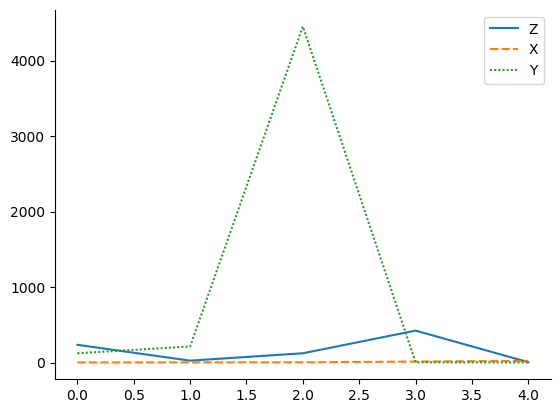
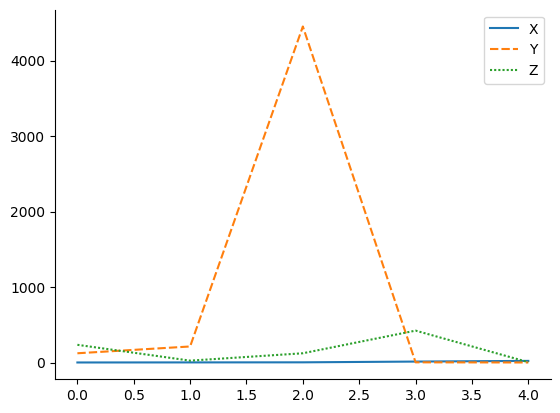
可以使用plt重新绘制（暂时只支持添加x,y轴label）图片

diff --git a/utils/pltType.py b/utils/pltType.py
@@ -1,0 +1,182 @@
+'''
+@lanhuage: python
+@Descripttion: 
+@version: beta
+@Author: xiaoshuyui
+@Date: 2020-04-21 15:16:04
+@LastEditors: xiaoshuyui
+@LastEditTime: 2020-04-21 15:19:48
+'''
+cnames = { 
+'aliceblue':   '#F0F8FF', 
+'antiquewhite':   '#FAEBD7', 
+'aqua':     '#00FFFF', 
+'aquamarine':   '#7FFFD4', 
+'azure':    '#F0FFFF', 
+'beige':    '#F5F5DC', 
+'bisque':    '#FFE4C4', 
+'black':    '#000000', 
+'blanchedalmond':  '#FFEBCD', 
+'blue':     '#0000FF', 
+'blueviolet':   '#8A2BE2', 
+'brown':    '#A52A2A', 
+'burlywood':   '#DEB887', 
+'cadetblue':   '#5F9EA0', 
+'chartreuse':   '#7FFF00', 
+'chocolate':   '#D2691E', 
+'coral':    '#FF7F50', 
+'cornflowerblue':  '#6495ED', 
+'cornsilk':    '#FFF8DC', 
+'crimson':    '#DC143C', 
+'cyan':     '#00FFFF', 
+'darkblue':    '#00008B', 
+'darkcyan':    '#008B8B', 
+'darkgoldenrod':  '#B8860B', 
+'darkgray':    '#A9A9A9', 
+'darkgreen':   '#006400', 
+'darkkhaki':   '#BDB76B', 
+'darkmagenta':   '#8B008B', 
+'darkolivegreen':  '#556B2F', 
+'darkorange':   '#FF8C00', 
+'darkorchid':   '#9932CC', 
+'darkred':    '#8B0000', 
+'darksalmon':   '#E9967A', 
+'darkseagreen':   '#8FBC8F', 
+'darkslateblue':  '#483D8B', 
+'darkslategray':  '#2F4F4F', 
+'darkturquoise':  '#00CED1', 
+'darkviolet':   '#9400D3', 
+'deeppink':    '#FF1493', 
+'deepskyblue':   '#00BFFF', 
+'dimgray':    '#696969', 
+'dodgerblue':   '#1E90FF', 
+'firebrick':   '#B22222', 
+'floralwhite':   '#FFFAF0', 
+'forestgreen':   '#228B22', 
+'fuchsia':    '#FF00FF', 
+'gainsboro':   '#DCDCDC', 
+'ghostwhite':   '#F8F8FF', 
+'gold':     '#FFD700', 
+'goldenrod':   '#DAA520', 
+'gray':     '#808080', 
+'green':    '#008000', 
+'greenyellow':   '#ADFF2F', 
+'honeydew':    '#F0FFF0', 
+'hotpink':    '#FF69B4', 
+'indianred':   '#CD5C5C', 
+'indigo':    '#4B0082', 
+'ivory':    '#FFFFF0', 
+'khaki':    '#F0E68C', 
+'lavender':    '#E6E6FA', 
+'lavenderblush':  '#FFF0F5', 
+'lawngreen':   '#7CFC00', 
+'lemonchiffon':   '#FFFACD', 
+'lightblue':   '#ADD8E6', 
+'lightcoral':   '#F08080', 
+'lightcyan':   '#E0FFFF', 
+'lightgoldenrodyellow': '#FAFAD2', 
+'lightgreen':   '#90EE90', 
+'lightgray':   '#D3D3D3', 
+'lightpink':   '#FFB6C1', 
+'lightsalmon':   '#FFA07A', 
+'lightseagreen':  '#20B2AA', 
+'lightskyblue':   '#87CEFA', 
+'lightslategray':  '#778899', 
+'lightsteelblue':  '#B0C4DE', 
+'lightyellow':   '#FFFFE0', 
+'lime':     '#00FF00', 
+'limegreen':   '#32CD32', 
+'linen':    '#FAF0E6', 
+'magenta':    '#FF00FF', 
+'maroon':    '#800000', 
+'mediumaquamarine':  '#66CDAA', 
+'mediumblue':   '#0000CD', 
+'mediumorchid':   '#BA55D3', 
+'mediumpurple':   '#9370DB', 
+'mediumseagreen':  '#3CB371', 
+'mediumslateblue':  '#7B68EE', 
+'mediumspringgreen': '#00FA9A', 
+'mediumturquoise':  '#48D1CC', 
+'mediumvioletred':  '#C71585', 
+'midnightblue':   '#191970', 
+'mintcream':   '#F5FFFA', 
+'mistyrose':   '#FFE4E1', 
+'moccasin':    '#FFE4B5', 
+'navajowhite':   '#FFDEAD', 
+'navy':     '#000080', 
+'oldlace':    '#FDF5E6', 
+'olive':    '#808000', 
+'olivedrab':   '#6B8E23', 
+'orange':    '#FFA500', 
+'orangered':   '#FF4500', 
+'orchid':    '#DA70D6', 
+'palegoldenrod':  '#EEE8AA', 
+'palegreen':   '#98FB98', 
+'paleturquoise':  '#AFEEEE', 
+'palevioletred':  '#DB7093', 
+'papayawhip':   '#FFEFD5', 
+'peachpuff':   '#FFDAB9', 
+'peru':     '#CD853F', 
+'pink':     '#FFC0CB', 
+'plum':     '#DDA0DD', 
+'powderblue':   '#B0E0E6', 
+'purple':    '#800080', 
+'red':     '#FF0000', 
+'rosybrown':   '#BC8F8F', 
+'royalblue':   '#4169E1', 
+'saddlebrown':   '#8B4513', 
+'salmon':    '#FA8072', 
+'sandybrown':   '#FAA460', 
+'seagreen':    '#2E8B57', 
+'seashell':    '#FFF5EE', 
+'sienna':    '#A0522D', 
+'silver':    '#C0C0C0', 
+'skyblue':    '#87CEEB', 
+'slateblue':   '#6A5ACD', 
+'slategray':   '#708090', 
+'snow':     '#FFFAFA', 
+'springgreen':   '#00FF7F', 
+'steelblue':   '#4682B4', 
+'tan':     '#D2B48C', 
+'teal':     '#008080', 
+'thistle':    '#D8BFD8', 
+'tomato':    '#FF6347', 
+'turquoise':   '#40E0D0', 
+'violet':    '#EE82EE', 
+'wheat':    '#F5DEB3', 
+'white':    '#FFFFFF', 
+'whitesmoke':   '#F5F5F5', 
+'yellow':    '#FFFF00', 
+'yellowgreen':   '#9ACD32'}
+
+marker = [
+    '.',       
+    ',',      
+    'o',      
+    'v',     
+    '^',    
+    '<',   
+    '>',     
+    '1',     
+    '2',     
+    '3',    
+    '4',     
+    's',     
+    'p',    
+    '*',    
+    'h',    
+    'H',     
+    '+',     
+    'x',    
+    'D',    
+    'd',     
+    '|',     
+    '_'   
+]
+
+linestyle=[
+    '-'  ,
+    '--' ,
+    '-.' ,
+    ':'
+]

diff --git a/program.py b/program.py
@@ -5,7 +5,7 @@
 @Author: xiaoshuyui
 @Date: 2020-04-16 15:40:21
 @LastEditors: xiaoshuyui
-@LastEditTime: 2020-04-21 13:52:05
+@LastEditTime: 2020-04-21 15:33:26
 '''
 from PyQt5 import QtWidgets,QtCore,QtGui
 from PyQt5.QtWidgets import QMainWindow,QApplication,QAction,QFileDialog,QInputDialog,QMessageBox, \
@@ -149,9 +149,15 @@ class UI(QMainWindow,):
         self.set_test_button.triggered.connect(self.test)
         #回车事件判断
         self.url_edit.returnPressed.connect(self.inputTurn)
-        #输入事件判断
-        # self.url_edit.textChanged.connect(self.showHistory)
+        #显示访问记录
         self.showHistory()
+
+        self.xstick = ''
+        self.ystick = ''
+        self.dataPath = ''
+        self.sheetName = ''
+        self.formType = ''
+        self.columns = []
 
 
     def  showHistory(self): 
@@ -253,12 +259,14 @@ class UI(QMainWindow,):
 
                 menu = QMenu()
                 b1 = menu.addAction("修改X轴名")
-                b2 = menu.addAction("修改Y轴名")
+                b2 = menu.addAction("修改Y轴名")               
+                bchange = menu.addAction("重新绘制图形")
                 b3 = menu.addAction("关于...")
 
                 b3.triggered.connect(self.b3Clicked)
                 b1.triggered.connect(self.b1Clicked)
                 b2.triggered.connect(self.b2Clicked)
+                bchange.triggered.connect(self.bChangeClicked)
                 menu.exec_(QCursor.pos())
             
             else:
@@ -270,16 +278,40 @@ class UI(QMainWindow,):
                 b5.triggered.connect(self.b5Clicked)
                 menu.exec_(QCursor.pos())
 
-    
+    def bChangeClicked(self):
+        if "" == self.xstick and "" == self.ystick:
+            pass
+        else:
+            # print(self.xstick)
+            # print(self.ystick)
+            figurePath = plotFigureWithLabels(self.dataPath,self.sheetName,self.columns,\
+                self.formType,xstick=self.xstick,ystick=self.ystick)
+            from utils.webTest import check_aliveness
+            result = check_aliveness('127.0.0.1',5000)
+            if result:
+                import requests
+                url = 'http://localhost:5000/showImg'
+                img = '?imgName='+figurePath
+                self.browser.setUrl(QtCore.QUrl( url+img))
+            else:
+                QMessageBox.warning(self, "警告对话框", "服务器未启动", QMessageBox.Yes )
+
 
     def b3Clicked(self):
         QMessageBox.information(self, "提示：", '   作者很帅')
 
     def b1Clicked(self):
         text, ok=QInputDialog.getText(self, 'Text Input Dialog', '输入需要修改的X轴名：')
+        if ok:
+            if text!='':
+                self.xstick = text
+
 
     def b2Clicked(self):
         text, ok=QInputDialog.getText(self, 'Text Input Dialog', '输入需要修改的Y轴名：')
+        if ok:
+            if text!='':
+                self.ystick = text
 
     def b4Clicked(self):
         ss = set(self.favWebs)
@@ -359,8 +391,12 @@ class UI(QMainWindow,):
         
         ps = list(set(ps))
         # print(ps)
-        print(ps)
+
         if len(ps)>0 :
+            self.dataPath = fileName_choose
+            self.sheetName = sheetName
+            self.formType = formType
+            self.columns = ps
             figurePath = plotFigure(fileName_choose,sheetName,ps,formType)
 
             from utils.webTest import check_aliveness
@@ -373,9 +409,6 @@ class UI(QMainWindow,):
             else:
                 QMessageBox.warning(self, "警告对话框", "服务器未启动", QMessageBox.Yes )
             
-
-        
-
 
 
     def defaultPage(self):

diff --git a/utils/analyse.py b/utils/analyse.py
@@ -5,7 +5,7 @@
 @Author: xiaoshuyui
 @Date: 2020-04-17 08:58:31
 @LastEditors: xiaoshuyui
-@LastEditTime: 2020-04-21 10:47:38
+@LastEditTime: 2020-04-21 15:31:21
 '''
 
 import numpy as np 
@@ -13,9 +13,11 @@ import pandas as pd
 import matplotlib.pyplot as plt 
 import seaborn as sns 
 import os
-# from myError import SheetNotFoundError,SheetReadError
-# from .myError import SheetNotFoundError,SheetReadError
-# from PyQt5.QtWidgets import QWidget
+from pandas import DataFrame
+import random
+from .pltType import *
+
+colors = list(cnames.keys())
 
 def readColumn(path:str,sheetName):
     params = []
@@ -48,11 +50,13 @@ def readColumn(path:str,sheetName):
     
 def plotFigure(path:str,sheetName:str,column:list=[],figure:str=""):
     df = pd.read_excel(path,sheetName)
+    # print(df)
     d = []
     if len(column)>0:
         for i in column:
             d.append(df[i])
-        sns.lineplot( data=d)
+        # sns.lineplot(data=d)
+        sns.lineplot(data=df)
         sns.despine()
             # filePath = path.split('/')
         filePath = os.path.abspath(os.path.join(os.path.dirname(path),os.path.pardir))
@@ -67,7 +71,8 @@ def plotFigure(path:str,sheetName:str,column:list=[],figure:str=""):
         return figurePath
                 
     else:
-        sns.lineplot( data=df)
+        sns.lineplot(data=df)
+        # sns.lineplot( data=df)
         sns.despine()
             # filePath = path.split('/')
         filePath = os.path.abspath(os.path.join(os.path.dirname(path),os.path.pardir))
@@ -82,6 +87,43 @@ def plotFigure(path:str,sheetName:str,column:list=[],figure:str=""):
     
 
 
+def plotFigureWithLabels(path:str,sheetName:str,columns:list=[],figure:str="",\
+    xstick="",ystick=""):
+    #for test
+    # column = ['X','Y']
+    df = pd.read_excel(path,sheetName)
+    d = []
+    if len(columns)>0:
+        for i in columns:
+            plt.plot(df[i],label=i,color=random.choice(colors),\
+                ls=random.choice(linestyle),marker=random.choice(marker))
+    else:
+        columns = []
+        # plt.plot(df)
+        for column in df:
+            columns.append(column)
+        for i in columns:
+            plt.plot(df[i],label=i,color=random.choice(colors),\
+                ls=random.choice(linestyle),marker=random.choice(marker))
+    plt.legend(loc=2)
+    plt.xlabel(xstick)
+    plt.ylabel(ystick)
+
+    filePath = os.path.abspath(os.path.join(os.path.dirname(path),os.path.pardir))
+    # print(filePath)
+    figurePath = filePath + os.sep + 'static'+os.sep +"testAA.png"
+    if  os.path.exists(figurePath):
+        os.remove(figurePath)
+    plt.savefig(figurePath, bbox_inches='tight')
+    plt.clf()
+    return figurePath
+    # plt.show()
+    
+    # print(d)
+
+    
+
+
 
         
 
@@ -92,5 +134,5 @@ if __name__ == "__main__":
     path = "D:/testALg/WebBrowser-python-pyqt5-14/LocalWebTest/static/data.xls"
     # p = readColumn(path,'Sheet2')
     # print(p)
-    plotFigure(path,'Sheet1')
-    plotFigure(path,'Sheet1')
+    # plotFigure(path,'Sheet1')
+    plotFigureWithLabels(path,'Sheet1')
